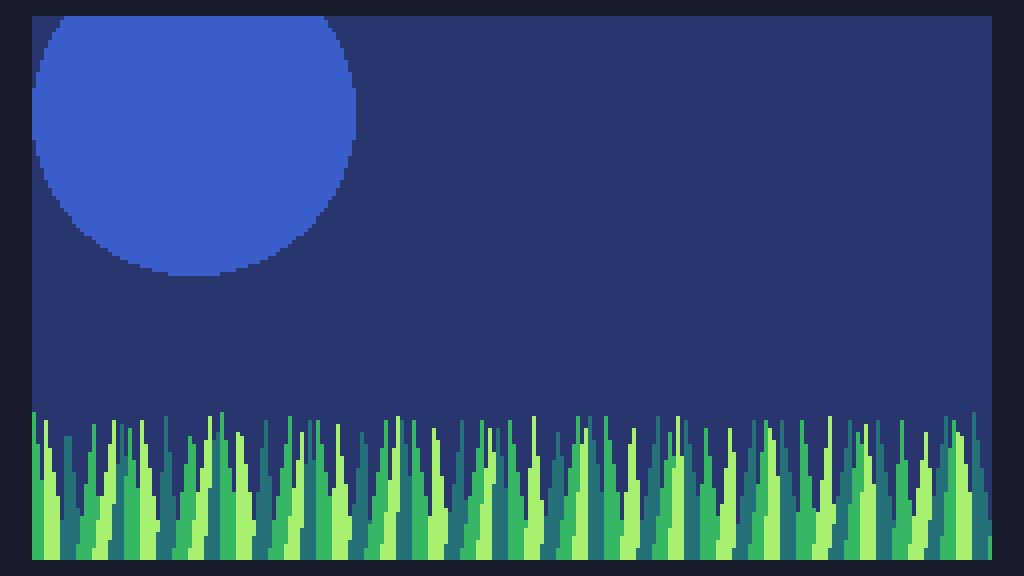
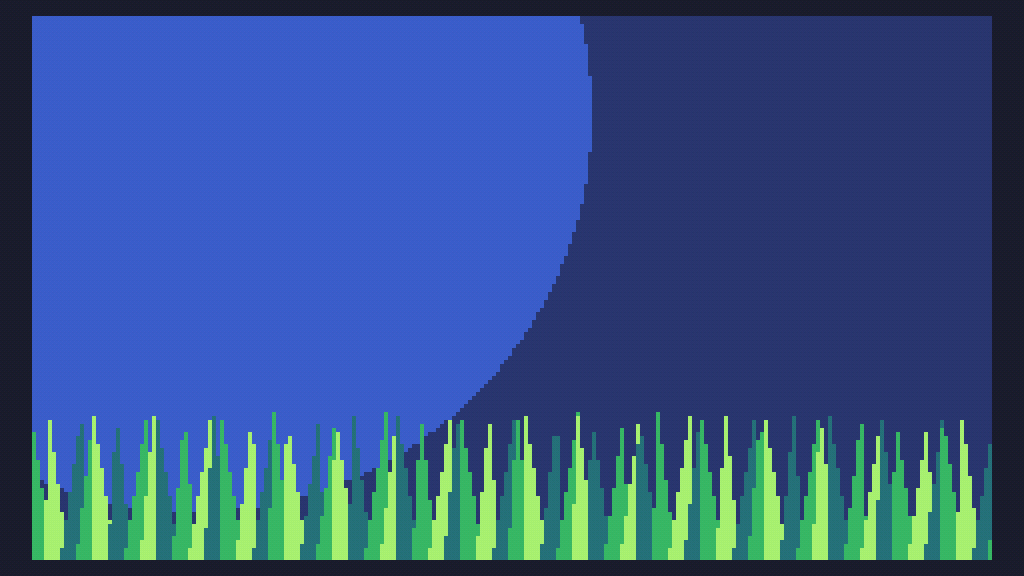
TCC: Bigger moon!

diff --git a/content/code/tiny-code-xmas/index.md b/content/code/tiny-code-xmas/index.md
@@ -436,7 +436,7 @@ end
 
 > Combine rotation with a perspective effect!
 
-The challenge was to make the smallest possible implementation of raster bars, but I wasn’t really feeling them so I brought back the Surveillance Snakes. Well, one of them. I would have liked to do the eyes but I couldn’t figure out a good way without repeating a lot of code. You’ll have to imagine them.
+The challenge was to make the smallest possible implementation of raster bars, but I wasn’t really feeling them so I brought back the Surveillance Snakes. Well, one of them. I would have liked to do the eye but I couldn’t figure out a good way without repeating a lot of code. You’ll have to imagine them.
 
 *146 characters*
 
